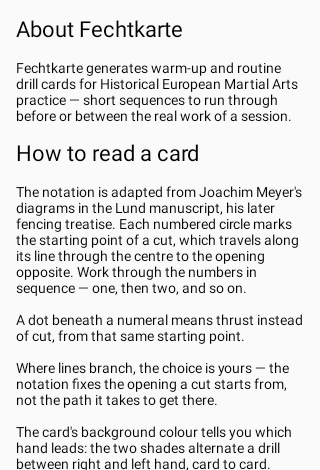
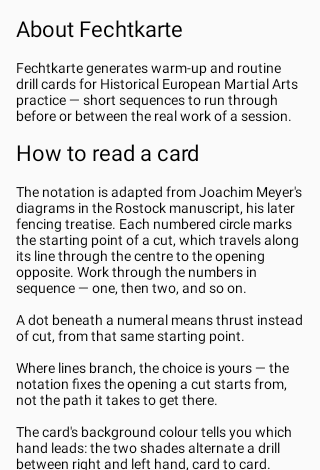
Release 1.0.8: PNG/PDF metadata, Sources screen, Actions token-scope hardening

Changed region(s): [[0.5625, 0.417, 0.9062, 0.4766], [0.375, 0.417, 0.5312, 0.4766]]

diff --git a/app/src/main/java/at/j0s/meyercard/app/adapter/ui/sources/SourcesScreen.kt b/app/src/main/java/at/j0s/meyercard/app/adapter/ui/sources/SourcesScreen.kt
@@ -1,0 +1,80 @@
+package at.j0s.meyercard.app.adapter.ui.sources
+
+import android.content.Context
+import android.graphics.BitmapFactory
+import androidx.compose.foundation.Image
+import androidx.compose.foundation.layout.Arrangement
+import androidx.compose.foundation.layout.Column
+import androidx.compose.foundation.layout.fillMaxSize
+import androidx.compose.foundation.layout.fillMaxWidth
+import androidx.compose.foundation.layout.padding
+import androidx.compose.foundation.rememberScrollState
+import androidx.compose.foundation.verticalScroll
+import androidx.compose.material3.MaterialTheme
+import androidx.compose.material3.Text
+import androidx.compose.material3.TextButton
+import androidx.compose.runtime.Composable
+import androidx.compose.runtime.getValue
+import androidx.compose.runtime.mutableStateOf
+import androidx.compose.runtime.remember
+import androidx.compose.runtime.setValue
+import androidx.compose.ui.Modifier
+import androidx.compose.ui.graphics.ImageBitmap
+import androidx.compose.ui.graphics.asImageBitmap
+import androidx.compose.ui.res.painterResource
+import androidx.compose.ui.res.stringResource
+import androidx.compose.ui.unit.dp
+import at.j0s.meyercard.app.R
+
+/**
+ * The Sources screen: general credit to Joachim Meyer's fencing tradition, plus the one page
+ * from either source manuscript that actually matches Fechtkarte's own card shape (a centre
+ * point, eight lines, two rings) -- Rostock MS Var.82, folio 2v. Confirmed by visually reviewing
+ * every page of both digitised manuscripts; Lund MS A.4º.2 has no page in this shape (combat-pose
+ * illustrations and an unrelated proportion diagram instead) -- see DESIGN_CHOICES.md. Shows
+ * Fechtkarte's own redraw of the wheel by default, with a toggle to the real scan, per the
+ * project owner's decision that the redraw should read as part of the app's own visual family
+ * while still making the real artifact available.
+ *
+ * Deliberately does not claim any specific card is drawn from a specific manuscript page --
+ * DESIGN_CHOICES.md's T9.13 entry already walked back an overclaim of exactly that shape for the
+ * card dataset; this screen's copy is general credit only.
+ */
+@Composable
+fun SourcesScreen(scan: ImageBitmap, modifier: Modifier = Modifier) {
+    var showingScan by remember { mutableStateOf(false) }
+
+    Column(
+        modifier = modifier.fillMaxSize().verticalScroll(rememberScrollState()).padding(16.dp),
+        verticalArrangement = Arrangement.spacedBy(16.dp),
+    ) {
+        Text(stringResource(R.string.sources_title), style = MaterialTheme.typography.titleLarge)
+        Text(stringResource(R.string.sources_intro))
+
+        Text(stringResource(R.string.sources_wheel_title), style = MaterialTheme.typography.titleLarge)
+        Text(stringResource(R.string.sources_wheel_body))
+        if (showingScan) {
+            Image(
+                bitmap = scan,
+                contentDescription = stringResource(R.string.sources_view_scan),
+                modifier = Modifier.fillMaxWidth(),
+            )
+        } else {
+            Image(
+                painter = painterResource(R.drawable.ic_source_wheel),
+                contentDescription = stringResource(R.string.sources_view_redraw),
+                modifier = Modifier.fillMaxWidth(),
+            )
+        }
+        TextButton(onClick = { showingScan = !showingScan }) {
+            Text(stringResource(if (showingScan) R.string.sources_view_redraw else R.string.sources_view_scan))
+        }
+
+        Text(stringResource(R.string.sources_citation_title), style = MaterialTheme.typography.titleLarge)
+        Text(stringResource(R.string.sources_citation_lund))
+        Text(stringResource(R.string.sources_citation_rostock))
+    }
+}
+
+internal fun Context.readSourcesScanAsset(): ImageBitmap =
+    assets.open("sources/rostock_f2v_scan.jpg").use { BitmapFactory.decodeStream(it) }.asImageBitmap()

diff --git a/app/src/main/java/at/j0s/meyercard/app/adapter/ui/FechtkarteApp.kt b/app/src/main/java/at/j0s/meyercard/app/adapter/ui/FechtkarteApp.kt
@@ -24,6 +24,7 @@ import androidx.compose.runtime.rememberCoroutineScope
 import androidx.compose.runtime.setValue
 import androidx.compose.ui.Alignment
 import androidx.compose.ui.Modifier
+import androidx.compose.ui.graphics.ImageBitmap
 import androidx.compose.ui.platform.LocalContext
 import androidx.compose.ui.res.stringResource
 import androidx.navigation.compose.NavHost
@@ -38,6 +39,8 @@ import at.j0s.meyercard.app.adapter.ui.library.LibraryScreen
 import at.j0s.meyercard.app.adapter.ui.notices.NoticesScreen
 import at.j0s.meyercard.app.adapter.ui.notices.RUNTIME_DEPENDENCY_NOTICES
 import at.j0s.meyercard.app.adapter.ui.notices.readFontLicenceAsset
+import at.j0s.meyercard.app.adapter.ui.sources.SourcesScreen
+import at.j0s.meyercard.app.adapter.ui.sources.readSourcesScanAsset
 import at.j0s.meyercard.app.adapter.ui.train.ShakeToGenerate
 import at.j0s.meyercard.app.adapter.ui.train.TrainScreen
 import at.j0s.meyercard.app.application.port.api.BrowseHistoricalCards
@@ -58,6 +61,7 @@ private object Route {
     const val CONFIGURE = "configure"
     const val LEARN = "learn"
     const val NOTICES = "notices"
+    const val SOURCES = "sources"
 }
 
 /**
@@ -120,9 +124,13 @@ fun FechtkarteApp(
             }
             composable(Route.CONFIGURE) { ConfigureRoute(preferencesStore) }
             composable(Route.LEARN) {
-                LearnScreen(onNoticesClick = { navController.navigate(Route.NOTICES) })
+                LearnScreen(
+                    onNoticesClick = { navController.navigate(Route.NOTICES) },
+                    onSourcesClick = { navController.navigate(Route.SOURCES) },
+                )
             }
             composable(Route.NOTICES) { NoticesRoute() }
+            composable(Route.SOURCES) { SourcesRoute() }
         }
     }
 }
@@ -241,6 +249,21 @@ private fun NoticesRoute(modifier: Modifier = Modifier) {
         CircularProgressIndicator(modifier = modifier.wrapContentSize(Alignment.Center))
     } else {
         NoticesScreen(entries = RUNTIME_DEPENDENCY_NOTICES, fontLicenceText = loaded, modifier = modifier)
+    }
+}
+
+@Composable
+private fun SourcesRoute(modifier: Modifier = Modifier) {
+    val context = LocalContext.current
+    val scan by produceState<ImageBitmap?>(initialValue = null) {
+        value = context.readSourcesScanAsset()
+    }
+
+    val loaded = scan
+    if (loaded == null) {
+        CircularProgressIndicator(modifier = modifier.wrapContentSize(Alignment.Center))
+    } else {
+        SourcesScreen(scan = loaded, modifier = modifier)
     }
 }
 

diff --git a/app/src/testDebug/java/at/j0s/meyercard/app/adapter/ui/sources/SourcesScreenScreenshotTest.kt b/app/src/testDebug/java/at/j0s/meyercard/app/adapter/ui/sources/SourcesScreenScreenshotTest.kt
@@ -1,0 +1,51 @@
+package at.j0s.meyercard.app.adapter.ui.sources
+
+import android.content.Context
+import androidx.compose.ui.test.junit4.v2.createComposeRule
+import androidx.compose.ui.test.onNodeWithText
+import androidx.compose.ui.test.onRoot
+import androidx.compose.ui.test.performClick
+import androidx.compose.ui.test.performScrollTo
+import androidx.test.core.app.ApplicationProvider
+import androidx.test.ext.junit.runners.AndroidJUnit4
+import at.j0s.meyercard.app.R
+import com.github.takahirom.roborazzi.RoborazziRule
+import com.github.takahirom.roborazzi.captureRoboImage
+import org.junit.Rule
+import org.junit.Test
+import org.junit.runner.RunWith
+import org.robolectric.annotation.GraphicsMode
+
+/**
+ * Robolectric/Roborazzi, debug-only — same reasoning as the other screenshot tests (T2.4). Loads
+ * the real bundled scan asset via [readSourcesScanAsset] rather than a stand-in bitmap, so this
+ * exercises the actual asset-read path, not just the layout.
+ */
+@RunWith(AndroidJUnit4::class)
+@GraphicsMode(GraphicsMode.Mode.NATIVE)
+class SourcesScreenScreenshotTest {
+
+    @get:Rule
+    val composeTestRule = createComposeRule()
+
+    @get:Rule
+    val roborazziRule = RoborazziRule(
+        composeRule = composeTestRule,
+        captureRoot = composeTestRule.onRoot(),
+    )
+
+    private val context = ApplicationProvider.getApplicationContext<Context>()
+
+    @Test
+    fun sourcesScreenShowsTheRedrawByDefault() {
+        composeTestRule.setContent { SourcesScreen(scan = context.readSourcesScanAsset()) }
+        composeTestRule.onRoot().captureRoboImage()
+    }
+
+    @Test
+    fun sourcesScreenTogglesToTheScan() {
+        composeTestRule.setContent { SourcesScreen(scan = context.readSourcesScanAsset()) }
+        composeTestRule.onNodeWithText(context.getString(R.string.sources_view_scan)).performScrollTo().performClick()
+        composeTestRule.onRoot().captureRoboImage()
+    }
+}

diff --git a/app/src/main/java/at/j0s/meyercard/app/adapter/ui/learn/LearnScreen.kt b/app/src/main/java/at/j0s/meyercard/app/adapter/ui/learn/LearnScreen.kt
@@ -36,7 +36,7 @@ import java.time.Instant
  * content for FOSS distribution.
  */
 @Composable
-fun LearnScreen(onNoticesClick: () -> Unit, modifier: Modifier = Modifier) {
+fun LearnScreen(onNoticesClick: () -> Unit, onSourcesClick: () -> Unit, modifier: Modifier = Modifier) {
     Column(
         modifier = modifier.fillMaxSize().verticalScroll(rememberScrollState()).padding(16.dp),
         verticalArrangement = Arrangement.spacedBy(16.dp),
@@ -59,6 +59,7 @@ fun LearnScreen(onNoticesClick: () -> Unit, modifier: Modifier = Modifier) {
             Text(action.spoken(resources).replaceFirstChar(Char::uppercase) + ".")
         }
 
+        TextButton(onClick = onSourcesClick) { Text(stringResource(R.string.learn_sources)) }
         TextButton(onClick = onNoticesClick) { Text(stringResource(R.string.learn_open_source_notices)) }
     }
 }

diff --git a/app/src/testDebug/java/at/j0s/meyercard/app/adapter/ui/learn/LearnScreenScreenshotTest.kt b/app/src/testDebug/java/at/j0s/meyercard/app/adapter/ui/learn/LearnScreenScreenshotTest.kt
@@ -26,7 +26,7 @@ class LearnScreenScreenshotTest {
 
     @Test
     fun learnScreenRendersCopyAndWorkedExample() {
-        composeTestRule.setContent { LearnScreen(onNoticesClick = {}) }
+        composeTestRule.setContent { LearnScreen(onNoticesClick = {}, onSourcesClick = {}) }
         composeTestRule.onRoot().captureRoboImage()
     }
 }

diff --git a/app/src/testDebug/java/at/j0s/meyercard/app/adapter/ui/PlayStoreScreenshotTest.kt b/app/src/testDebug/java/at/j0s/meyercard/app/adapter/ui/PlayStoreScreenshotTest.kt
@@ -75,7 +75,7 @@ class PlayStoreScreenshotTest {
 
     @Test
     fun learnScreen() {
-        composeTestRule.setContent { LearnScreen(onNoticesClick = {}) }
+        composeTestRule.setContent { LearnScreen(onNoticesClick = {}, onSourcesClick = {}) }
         composeTestRule.onRoot().captureRoboImage()
     }
 }

diff --git a/docs/ASSET_PROVENANCE.md b/docs/ASSET_PROVENANCE.md
@@ -75,9 +75,7 @@ thrusts, in a notation credited to Joachim Meyer's 16th-century fencing teaching
 a short numeric fact — "action 3 starts north-east, outer ring, and is a thrust" — not
 narrative or pictorial expression.
 
-## Manuscript imagery — provenance cleared, no specific page scans chosen or bundled yet
-
-Needed for the Sources screen (task T7.3).
+## Manuscript imagery — one page chosen, bundled, and redrawn (task T7.3)
 
 **Both source manuscripts' figures are confirmed public domain by their holding institutions
 directly** — not just by Wiktenauer's own policy (which separately treats manuscript scans as
@@ -103,12 +101,27 @@ The Wiktenauer URN link for Lund (`urn:nbn:se:lu:ub-MeyerJ_Faktbok-12232688`) is
 (resolves to "no valid destination"); the live Alvin link above was found via web search and
 should replace it if this document is updated again.
 
-**What's still open, not a licensing question anymore:** which specific page(s)/diagram(s) to
-actually use for the Sources screen, and whether to bundle an institution-hosted scan directly
-or fall back to Fechtkarte's own vector redraw of the diagram, which also suits the app's own
-visual identity better and sidesteps any residual "faithful reproduction" nuance entirely.
-Downloading and bundling an actual scan file is a distinct decision from clearing its licence —
-not done as part of this research pass.
+**Resolved.** Every page of both digitised manuscripts was reviewed visually (Lund: all 89
+folios, via Alvin's per-attachment endpoints and the manuscript's own bundled fulltext PDF;
+Rostock: all 269 canvases, via its IIIF manifest at
+`https://rosdok.uni-rostock.de/api/iiif/presentation/v2/rosdok_ppn780606825/manifest`) looking
+for a page in Fechtkarte's own card shape — a centre point, eight lines, two rings. Exactly one
+page matches: **Rostock MS Var.82, folio 2v**, a hand-drawn compass wheel. (Lund MS A.4º.2 has
+no page in this shape — its illustrations are watercolour combat-pose pairs, folios 11r/15r/17r/
+19r/20r/27r/29r, and a separate rectangular proportion/measure diagram, folios ~84r–87r, an
+unrelated construction.)
+
+Bundled at `app/src/main/assets/sources/rostock_f2v_scan.jpg` — downloaded from
+`https://rosdok.uni-rostock.de/api/iiif/image/v2/rosdok_ppn780606825__phys_0010/full/1400,/0/default.jpg`
+(2026-09-02), re-encoded to 1200×1664 / quality 82 / stripped metadata (291KB) to keep the app's
+first-ever bundled raster asset a reasonable size. Shown only as a toggle, behind Fechtkarte's own
+vector redraw (`app/src/main/res/drawable/ic_source_wheel.xml`, hand-authored, in
+`CardPalette.INK`/`PAPER`) — see `DESIGN_CHOICES.md`'s T7.3 entry for why redraw-first was chosen.
+
+Folio 2v's facing page, folio 2r, carries the diagram's own legend (labels A–G and a–g naming
+body-target zones in German secretary hand) — not transcribed or bundled; the Sources screen
+mentions its existence in prose only, since transcribing/translating period secretary hand into
+three languages is real extra work with no clear v1 payoff.
 
 ### Two sources that must not be used
 

diff --git a/FEATURES.md b/FEATURES.md
@@ -82,6 +82,12 @@ itself even after being renamed, copied, or sent somewhere the app that made it 
 uninstalled from. Readable with any metadata viewer (a PNG's `Software`/`Comment`/`URL` text
 chunks, a PDF's Author/Subject/Creator/Producer).
 
+**A Sources screen**, reached from Learn. Fechtkarte's own redrawn compass wheel — a centre
+point, eight lines, two rings, the same shape every card is built from — with a toggle to view
+the real page it's redrawn from: folio 2v of a 16th-century fencing manuscript held at the
+University of Rostock. Citations for both source manuscripts, and general credit to Joachim
+Meyer's fencing tradition, without claiming any particular card reproduces a particular page.
+
 This section stays honest: a feature lands here when it works end to end, not when the code
 compiles.
 
@@ -89,4 +95,3 @@ compiles.
 
 - A "Home" screen with its own title treatment, beyond the launcher label — Library is still
   the start destination
-- A Sources screen crediting Joachim Meyer's manuscripts
